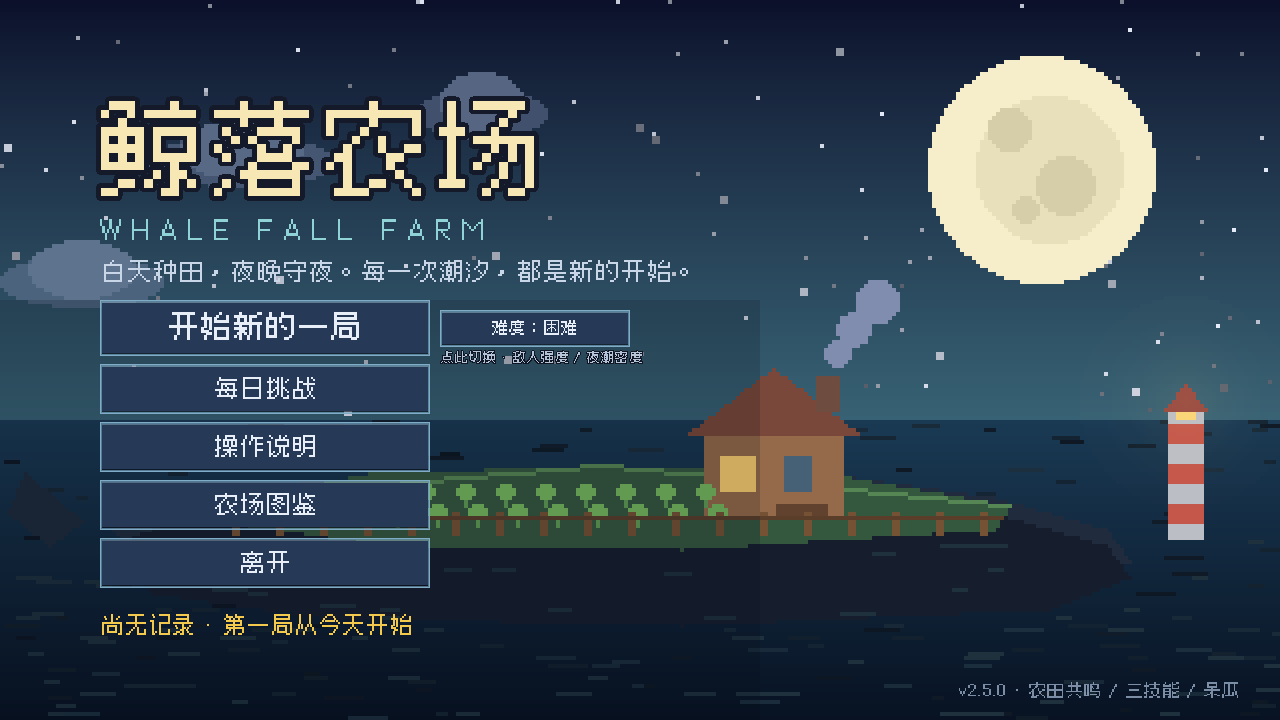
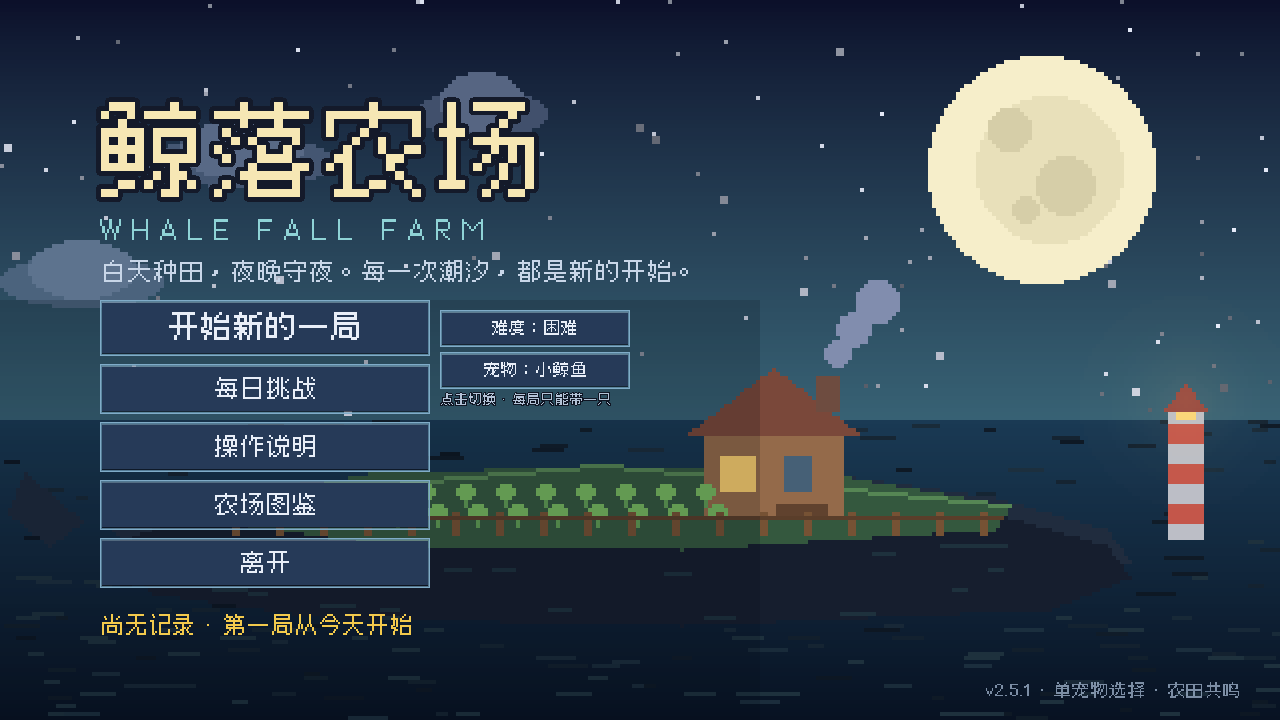
v2.5.1: one pet per run, pet selection on title

diff --git a/README.md b/README.md
@@ -30,8 +30,7 @@
 - **农场图鉴 / 统计**：标题界面打开图鉴，查看已发现的作物、怪物、祝福；统计页记录游玩局数、最佳天数、累计收获/击杀/金币。
 - **第二张地图「雾港」**：通关过一局后，约 30% 的局会进入雾港——冷色调、淡雾、作物生长 +15%，夜里多一只怪。
 - **每日挑战**：标题界面按当天日期生成固定种子，同一天所有玩家地形/天气/祝福一致；本地记录每日最佳天数。
-- **小鲸鱼**：开局跟随玩家，自动攻击附近的怪物；收获作物会让它成长（每 10 个收获升 1 级，等级显示在左下）。
-- **呆瓜**：另一只跟班，白天每 6 秒刨出金币或种子，夜晚每 4.5 秒用脑袋顶最近的怪（1 伤 + 击退）。
+- **小鲸鱼 / 呆瓜 二选一**：标题界面「宠物」按钮切换，每局只能带一只。小鲸鱼自动攻击并随收获升级；呆瓜白天刨金币/种子、夜晚顶怪。
 - **农田共鸣**：田里每株作物提供共鸣（未熟 1 / 成熟 2 / 金色 3，上限 30）；每 8 点 +1 挥镰伤害，每点 +1% 攻速（上限 25%）。作物被偷吃，共鸣就掉。
 - **收获余韵**：每次收获给 6 秒 +1 伤害 / +12% 攻速，并回复潮汐能量；不同作物还有额外效果（见作物表）。
 - **三个技能**：`Q` 旋风斩（25 能量，7s）、`X/Shift` 潮汐冲刺（20 能量，5s）、`C` 丰收守护（30 能量，12s，回 1 血 + 2 层护盾）。
@@ -89,6 +88,13 @@
 - **右上「Ⅱ」**：暂停；系统返回键同样打开暂停/继续。
 - 游戏锁定横屏；16:9 内容居中，超宽屏两侧留黑边。
 
+## 宠物
+
+标题界面的「宠物：小鲸鱼 / 呆瓜」按钮切换，**每局只能带一只**，设置会写进存档。
+
+- **小鲸鱼**：跟随，自动攻击附近怪物；每 10 个收获升 1 级，等级越高攻击越强。
+- **呆瓜**：跟随；白天每 6 秒刨出 1–3 金币或随机种子，夜晚每 4.5 秒顶 54px 内最近的怪（1 伤 + 击退）。
+
 ## 难度
 
 标题界面的「难度」按钮循环切换四档，默认 **困难**；想要真上强度就选 **深渊**：
@@ -110,8 +116,8 @@
 
 到 [Releases](https://github.com/ElectLive/whale-fall-farm/releases) 下载最新版：
 
-- Windows：`WhaleFallFarm-v2.5.0-win64.zip` — 解压双击 `WhaleFallFarm.exe`，绿色免安装，存档在 exe 旁边。
-- Android：`WhaleFallFarm-v2.5.0-android.apk` — Android 7.0+ / arm64，允许「安装未知来源应用」即可安装。APK 使用调试证书签名，适合直接安装试玩，不适合上架应用商店。
+- Windows：`WhaleFallFarm-v2.5.1-win64.zip` — 解压双击 `WhaleFallFarm.exe`，绿色免安装，存档在 exe 旁边。
+- Android：`WhaleFallFarm-v2.5.1-android.apk` — Android 7.0+ / arm64，允许「安装未知来源应用」即可安装。APK 使用调试证书签名，适合直接安装试玩，不适合上架应用商店。
 
 ## 从源码运行
 
@@ -156,7 +162,7 @@ python tools/gen_audio.py   # 4 首循环 BGM + 17 个音效 + 1 条雨声（需
 
 ```bash
 # 无头逻辑测试：种田、昼夜、商店、祝福、Boss、无尽、天气、移动端触控、存档
-Godot --headless --path . -- --selftest     # 98/98 PASS
+Godot --headless --path . -- --selftest     # 99/99 PASS
 
 # 实时冒烟测试：真的种一轮、传送到怪身边砍死几只、进入黎明
 Godot --headless --path . -- --smoke
@@ -225,6 +231,7 @@ docs/
 - **v2.4.0** — 第四档「深渊」：4 血 8 金、敌人 ×1.55 生命/×1.45 速度/×1.80 数量；史莱姆冲锋、缠根怪远程棘刺、深渊夜晚双波；Boss 66%/33% 血量环形弹幕与更快射速。
 - **v2.4.1** — 玩家贴图重绘：帽子/头发/头部重新衔接，填掉帽檐和头之间的透明空隙；四方向四帧全部重画，加刘海、鼻嘴、帽带和梯形帽冠。
 - **v2.5.0** — 农田共鸣 + 收获余韵 + 潮汐能量，把种田直接接进战斗；新增旋风斩/潮汐冲刺/丰收守护三技能和手机技能键；新宠物「呆瓜」白天刨金币种子、晚上顶怪。
+- **v2.5.1** — 宠物改为二选一：标题界面「宠物」按钮切换小鲸鱼/呆瓜，每局只能带一只，HUD 只显示当前宠物。
 
 ## 20 次更新记录
 

diff --git a/CHANGELOG.md b/CHANGELOG.md
@@ -1,7 +1,15 @@
-# Changelog
+# Changelog
 
 All notable changes to Whale Fall Farm are documented here.
 Format follows [Keep a Changelog](https://keepachangelog.com/); versions use semver.
+
+## v2.5.1 — 2026-11-07
+
+### Changed
+
+- **Only one pet per run**: title screen now has a 「宠物：小鲸鱼 / 呆瓜」 button; the choice is persisted and exactly one pet spawns.
+- HUD shows only the active pet's label; whale leveling and derp digging/bonking remain unchanged.
+- Selftest covers whale-only, derp-only and derp bonk paths.
 
 ## v2.5.0 — 2026-11-07
 
@@ -262,7 +270,8 @@ Format follows [Keep a Changelog](https://keepachangelog.com/); versions use sem
 - Fully procedural pixel art (Pillow), chiptune music and SFX (numpy), Cubic 11 font.
 - Headless self-test (`--selftest`), real-time smoke test (`--smoke`), screenshot tooling.
 
-[Unreleased]: https://github.com/ElectLive/whale-fall-farm/compare/v2.5.0...main
+[Unreleased]: https://github.com/ElectLive/whale-fall-farm/compare/v2.5.1...main
+[v2.5.1]: https://github.com/ElectLive/whale-fall-farm/releases/tag/v2.5.1
 [v2.5.0]: https://github.com/ElectLive/whale-fall-farm/releases/tag/v2.5.0
 [v2.4.1]: https://github.com/ElectLive/whale-fall-farm/releases/tag/v2.4.1
 [v2.4.0]: https://github.com/ElectLive/whale-fall-farm/releases/tag/v2.4.0

diff --git a/docs/updates20.md b/docs/updates20.md
@@ -1,4 +1,4 @@
-# 20 次更新路线图
+# 20 次更新路线图
 
 > 每次更新 = 一个可验证的功能/修复，独立提交并推送到 GitHub。
 > 每 4 次更新组成一个版本节点（v1.3.0 / v1.4.0 / v1.5.0 / v1.6.0 / v2.0.0），节点发 Windows + Android 构建。
@@ -54,4 +54,5 @@
 - **v2.4.0（2026-10-30）**：第四档深渊（4 血 8 金、×1.55 生命/×1.45 速度/×1.80 数量）；史莱姆冲锋、缠根怪远程棘刺、深渊双波、Boss 环形弹幕多阶段。
 - **v2.4.1（2026-10-30）**：玩家 16 帧重绘，修复帽檐与头部之间的透明空隙；新增刘海、鼻嘴、梯形帽冠和红帽带。
 - **v2.5.0（2026-11-07）**：农田共鸣/收获余韵/潮汐能量把种田接进战斗；三技能（旋风斩/冲刺/守护）；新宠物呆瓜（白天刨资源、晚上顶怪）。
+- **v2.5.1（2026-11-07）**：宠物改二选一（标题按钮切换小鲸鱼/呆瓜），每局只能带一只。
 

diff --git a/docs/devlog.md b/docs/devlog.md
@@ -1,4 +1,18 @@
-# 开发日志
+# 开发日志
+
+## v2.5.1 — 2026-11-07
+
+### 内容
+
+- **每局只能带一只宠物**：标题界面新增「宠物：小鲸鱼 / 呆瓜」按钮，保存在存档；开局按选择只生成一只。
+- HUD 只显示当前宠物的标签；小鲸鱼等级、呆瓜白天刨资源/晚上顶怪逻辑不变。
+- 补自测：小鲸鱼独占、呆瓜独占、呆瓜顶怪三条路径。
+
+### 验证记录
+
+- `--selftest`：**99/99 PASS**。
+- 截图：title 宠物按钮、day 只有小鲸鱼、手机单宠物。
+- 版本 2.5.1，Android versionCode 15。
 
 ## v2.5.0 — 2026-11-07
 

diff --git a/docs/design.md b/docs/design.md
@@ -148,9 +148,11 @@
 
 ### 宠物
 
+- 标题界面「宠物」按钮在 小鲸鱼 / 呆瓜 之间切换，存 `SaveGame.pet_choice`；每局只能带一只。
 - 小鲸鱼：跟随，自动攻击；收获升级。
 - **呆瓜**：跟随；白天每 6s 挖 1–3 金或随机种子；夜晚每 4.5s 顶 54px 内最近怪 1 伤 + 击退。
   2 帧呆萌土豆鸟贴图，HUD 左下独立标签。
+- 生成逻辑：`start_new_run` 按 `pet_choice` 只实例化一个；另一个为 null，HUD 对应标签隐藏。
 
 ### 玩家美术
 
